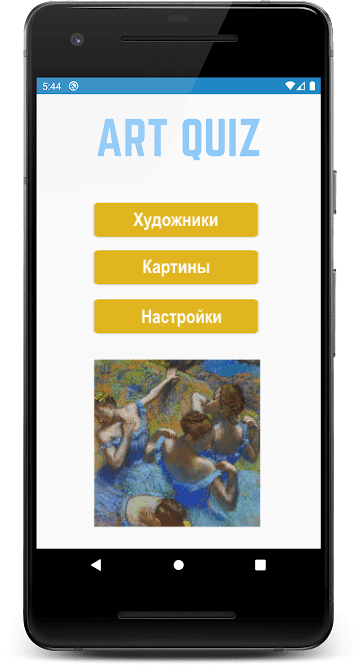
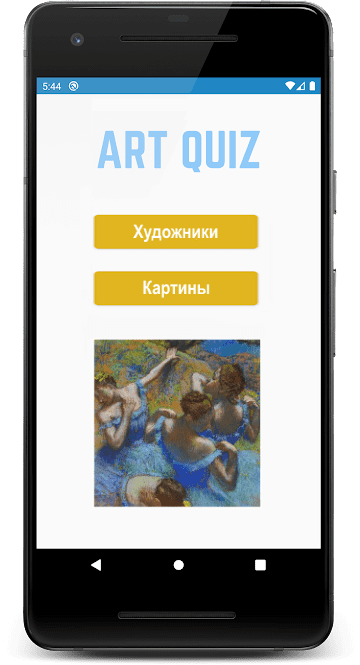
feat: clarification requirements art-quiz task

Changed region(s): [[0.2444, 0.3008, 0.7333, 0.812], [0.4889, 0.1805, 0.7333, 0.2707], [0.275, 0.1805, 0.4583, 0.2707]]

diff --git a/tasks/art-quiz/art-quiz.md b/tasks/art-quiz/art-quiz.md
@@ -1,6 +1,6 @@
 # art-quiz
 
-**ArtQuiz** - иллюстрированное и анимированное приложение-викторина на знание шедевров живописи и их авторов.
+**ArtQuiz** - приложение-викторина на знание шедевров живописи и их авторов.
 
 ## Ключевые навыки:
 - OOP
@@ -16,7 +16,6 @@
 
 - [Demo работы прототипа приложения](https://youtu.be/0C9CjjuCOvM)
 - [Исходные данные](https://github.com/irinainina/image-data)
-- [Макет в figma](https://www.figma.com/file/vQ5Wm4ZSRcIYt1MQq8g8qD/ArtQuiz)
 
 ## Требования к викторине
 - тематика викторины может быть любой. Для викторины с картинами уже есть исходные данные, если решите составить викторину на другую тему, данные для неё нужно будет подготовить самостоятельно. Исходные данные викторины с картинами можно менять и улучшать по своему усмотрению. Если выполняете викторину на другую тематику, слова про картины и их авторов из описания таска заменяете на слова, соответствующие тематике вашей викторины
@@ -26,71 +25,64 @@
 - вопросы викторины генерируются на основе исходных данных. При этом вопросы идут последовательно, а варианты ответов создаются рандомно. Если пройти раунд повторно, вопросы будут повторяться, а варианты ответов будут другими. В вариантах ответов на вопросы викторины должен быть правильный ответ и только один, правильный ответ в разных вопросах должен находиться на разных местах, а не, например, всегда быть только первым.
 
 ## Структура и функционал приложения
-1. Стартовый экран +10
-   - на стартовом экране можно выбрать тип вопроса:
+1. Стартовая страница и навигация +20
+   - на стартовой странице есть кнопки, при клике по которым можно выбрать тип вопроса:
        - угадать художника по картине
        - угадать картину по имени её автора
-   - на стартовом экране есть кнопка перенаправляющая на страницу с настройками викторины
-   - со стартового экрана пользователь может попасть на страницу категорий выбранного типа вопросов либо на страницу настроек.
+   - реализована навигация по страницам приложения +10
+      - со стартовой страницы при клике по кнопке с типом вопроса пользователь попадает на страницу категорий выбранного типа вопросов. Со страницы категорий пользователь может вернуться на стартовую страницу приложения
+      - со страницы категорий при клике по карточке категории пользователь попадает на страницу с вопросами категории, при клике по результатам прохождения категории пользователь попадает  на страницу с результатами ответов на вопросы категории. Со страницы с вопросами и со страницы с результатами пользователь может вернуться на страницу категорий
 
    <kbd>![screenshot](assets/art-quiz-2.png)</kbd>
 
-2. Страница настроек +30
-   - в настройках викторины можно включить/выключить звуковые эффекты и музыкальное сопровождение викторины, настроить их громкость +10
-   - также в настройках можно выбрать игру на время или игру без учёта времени +5
-   - если выбрана игра на время, на странице с вопросами викторины отображается таймер, отсчитывающий время, которое отведено для ответа на вопрос, например, 20 секунд +5
-   - если выбрана игра на время, на протяжении одного раунда (10 вопросов) можно дважды поставить таймер на паузу. Есть счётчик, который показывает сколько ещё раз можно сделать паузу в текущем раунде +10
-
-   <kbd>![screenshot](assets/art-quiz-7.png)</kbd>
-
-3. Страница категорий +30
+3. Страница категорий +50
    - всего в викторине не меньше 100 иллюстрированных вопросов +10  
-    Если использовать предложенные исходные данные, на их основе можно сгенерировать 200 вопросов, например, 100 вопросов про художников, 100 про картины
-   - вопросы разбиты на группы (категории). В каждой категории не меньше 10 вопросов +10  
-   Прохождение всех вопросов одной категории составляют один раунд игры.  
+   На основе предложенных исходных данных можно сгенерировать 200 вопросов: 100 про художников, 100 про картины
+   - вопросы разбиты на группы (категории). В каждой категории 10 вопросов +10  
+   Прохождение всех вопросов одной категории составляет один раунд игры.  
    Данные про проигранные раунды и их результаты хранятся в local storage.  
-   Категории могут иметь названия, или можно их просто пронумеровать
-   - карточка категории, на вопросы которой уже давались ответы, внешне отличается от карточки категории, которая ещё не игралась, и содержит результаты прохождения раунда: отношение количества вопросов, на которые был дан правильный ответ, к общему количеству вопросов +10  
+   - на странице категорий размещаются карточки категорий +10
+   Категории категорий могут иметь названия, или их можно просто пронумеровать
+   - карточка категории, на вопросы которой уже давались ответы, внешне отличается от карточки категории, которая ещё не игралась +10
+   - карточка категории, на вопросы которой уже давались ответы, содержит результаты прохождения раунда: отношение количества вопросов, на которые был дан правильный ответ, к общему количеству вопросов +10  
    Например, на скрине ниже первая категория вопросов уже пройдена (белый фон, синий шрифт, в правом верхнем углу отображаются результаты прохождения раунда), остальные ещё нет (цветной фон, белый шрифт, нет результатов прохождения раунда)
-   - со страницы категории пользователь попадает на страницу с вопросами
 
    <kbd>![screenshot](assets/art-quiz-3.png)</kbd>
 
 4. Страница с вопросами +50
-   - ни в коем случае не ожидается, что вы вручную напишете все вопросы викторины и варианты ответов к ним - вопросы и ответы должны генерироваться автоматически на основе предложенных или созданных самостоятельно исходных данных +10  
-   Вопросы в викторине идут в том порядке, в каком информация про картины и их авторов размещается в файле `images.js` коллекции исходных данных. Варианты ответов к вопросам генерируются случайным образом.  
+   - ни в коем случае не ожидается, что вы вручную напишете все вопросы викторины и варианты ответов к ним - вопросы не менее чем двух типов должны генерироваться автоматически на основе предложенных или созданных самостоятельно исходных данных +10  
+   Вопросы в викторине идут в том порядке, в каком информация про картины и их авторов размещается в файле `images.js` коллекции исходных данных.  
    Примеры вопросов про художников и про картины, которые можно сгенерировать на основании предложенных в задании исходных данных:
 
    <kbd>![screenshot](assets/art-quiz-4.png)</kbd>
 
-   - правильным и неправильным ответам соответствуют разные звуковые сигналы и индикаторы разного цвета +10
+   - варианты ответов на вопросы генерируются случайным образом +10
+   - правильным и неправильным ответам пользователя соответствуют индикаторы разного цвета +10
    - после того, как ответ выбран, появляется модальное окно с правильным ответом на вопрос и кнопкой "Продолжить". При клике по кнопке "Продолжить" пользователь переходит к следующему вопросу +10
    
    <kbd>![screenshot](assets/art-quiz-5.png)</kbd>
    
-   - после окончания раунда выводится модальное окно с поздравлением, результатами раунда - отношением количества вопросов, на которые был дан правильный ответ, к общему количеству вопросов, кнопкой для перехода к следующей категории +10
-   - после окончания всех раундов вопросов данного типа, выводится модальное окно с поздравлением, результатами по каждому раунду, кнопками "Играть повторно" возле тех раундов, результаты по которым не максимальные +10  
-   Если результаты по всем раундам максимальные, выводится поздравление с абсолютной победой (не проверяется и не оценивается)
- 
+   - после окончания раунда выводится модальное окно с уведомлением об окончании раунда и его результатами - отношением количества вопросов, на которые был дан правильный ответ, к общему количеству вопросов +10
+  
 5. Страница с результатами +50
-   - страница с результатами содержит превью всех картин викторины +10
-   - чтобы не заставлять пользователя загружать все 200 картин, для страницы с результатами  необходимо добавить пагинацию, чтобы результаты можно было пролистывать постранично, например, одна страница - один раунд игры +10
-   - картины, вопросы с которыми уже проигрывались, цветные; картины, которые ещё не участвовали в вопросах, черно-белые +10
-   - при клике на картины, которые уже проигрывались, всплывает подсказка с данными по этой картине - название, автор, год создания +10
-   - возле картин, которые уже проигрывались, есть цветные индикаторы, которые показывают была эта картина или её автор угаданы, или нет. Данные по результатам угадывания каждой картины (или её автора) хранятся в local storage +5
-   - если раунд с картиной проигрывался повторно и результаты изменились, меняются и индикаторы возле картин +5
+   - страница с результатами содержит превью всех картин категории +10
+   - картины, на вопросы про которые или про их авторов был дан правильный ответ, цветные; картины, на вопросы про которые был дан неправильный ответ, черно-белые +10
+   - при клике по картине появляется модальное окно с информацией по этой картине - название, автор, год создания +10
+   - если раунд проигрывался повторно и результаты изменились, эти изменения отображаются на странице с результатами +10
+   - есть кнопка сброса результатов проигрывания раунда +10
    
    <kbd>![screenshot](assets/art-quiz-6.png)</kbd>
 
 6. Реализована анимация отдельных деталей интерфейса, также анимированы переходы и взаимодействия, чтобы работа с приложением шла плавным и непрерывным потоком +30  
 Примеры анимаций можно увидеть в [видео](https://youtu.be/0C9CjjuCOvM) и [gif](assets/art-quiz.gif)
-   - 5 баллов за каждую уникальную сложную анимацию, улучшающую интерфейс и удобство использования приложения, но не больше 30 баллов.
+   - 10 баллов за каждую уникальную сложную анимацию, улучшающую интерфейс и удобство использования приложения, но не больше 30 баллов.
    - Для удобства проверки перечень и описание реализованных анимаций включите в самооценку, которую выведите в консоль браузера 
 
-7. В качестве дополнительной функциональности можно придумать и реализовать ещё один дополнительный механизм прохождения викторины  +20  
-Например, `блиц-викторина`: появляются вопросы с ответами, нужно указать правильный это ответ или нет. За ответы начисляются баллы. За каждые пять правильных ответов количество баллов за ответ удваивается, при ошибке возвращается к исходному значению. Или за правильный ответ добавляется секунда времени, за неправильный снимаются две секунды.  
-Ещё один пример необычного прохождения викторины: в центре экрана появляется картина, падают карточки с именами художников, пока карточка не долетела до уровня картины, нужно кликнуть по падающей карточке с правильным ответом.  
-Баллы за анимации, реализованные в дополнительном механизме прохождения викторины, не учитываются в баллах за основную часть викторины
+7. Дополнительный функционал +20  
+   - звуковая индикация правильных и неправильных ответов, звуковое сопровождение окончания раунда +10
+   - есть переключатель, который позволяет выбрать игру на время или игру без учёта времени. Если выбрана игра на время, на странице с вопросами викторины отображается таймер, отсчитывающий время, которое отведено для ответа на вопрос, например, 20 секунд. Когда время истекает, это засчитывается как неправильный ответ на вопрос
+
+   <kbd>![screenshot](assets/art-quiz-6.png)</kbd>
 
 ## Критерии оценки
 **Максимальный балл за задание +200**
@@ -111,15 +103,15 @@
    - правильное наименование переменных и функций +10
    - используется prettier, код отформатирован, хорошо читается +10
    - нет дублирования кода, повторяющиеся фрагменты кода вынесены в функции, оптимальный размер функций, выполняется рекомендация: одна функция – одна задача +10
-   - нет глубокой вложенности циклов, нет магических чисел +10
-   - используются фичи ES6 и выше: let, const для объявления переменных, стрелочные функции, Spread/Rest операторы, деструктуризация, классы, async/await и т.д +10
+   - нет глубокой вложенности циклов, нет магических чисел, используется делегирование +10
+   - используются фичи ES6 и выше: let, const для объявления переменных, стрелочные функции, Spread/Rest операторы, деструктуризация, async/await и т.д +10
    - код разбит на модули +10
    - для сборки кода используется webpack +10
    - используется eslint с конфигурацией eslint-config-airbnb-base, ошибки линтера исправлены, в eslint не добавляются собственные правила без согласования с ментором +10
-   - в качестве источника данных используется JSON-файл +10
+   - в качестве источника данных используется JSON-файл, данные от которого получаются асинхронно +10
    - для написания компонентов приложения используются классы +10
    - создано одностраничное (SPA) приложение  +10
-   - html-код генерируется при помощи JavaScript +10
+   - html-код генерируется при помощи JavaScript. При этом нет требования чтобы весь код приложения генерировался динамически, достаточно, если динамически генерируется хотя бы часть кода +10
    - у ментора нет замечаний к качеству кода, либо все замечания ментора исправлены +10
 4. Оформление и функционал приложения +50
    - у ментора нет замечаний к оформлению и функционалу приложения, либо все замечания ментора исправлены +50
@@ -145,6 +137,7 @@
   - избегайте дублирования кода, повторяющиеся фрагменты кода вынесите в функции
   - стремитесь к оптимальному размеру функций, следуйте правилу: одна функция – одна задача
   - избегайте глубокой вложенности циклов, магических чисел
+  - используйте делегирование
   - используйте фичи ES6 и выше, например, let, const для объявления переменных, стрелочные функции и т.д
 - разбейте js-код на модули
 - для совершенствования навыков работы с асинхронным кодом, файл `images.js` рекомендуется преобразовать в JSON-файл и работать с ним асинхронно
